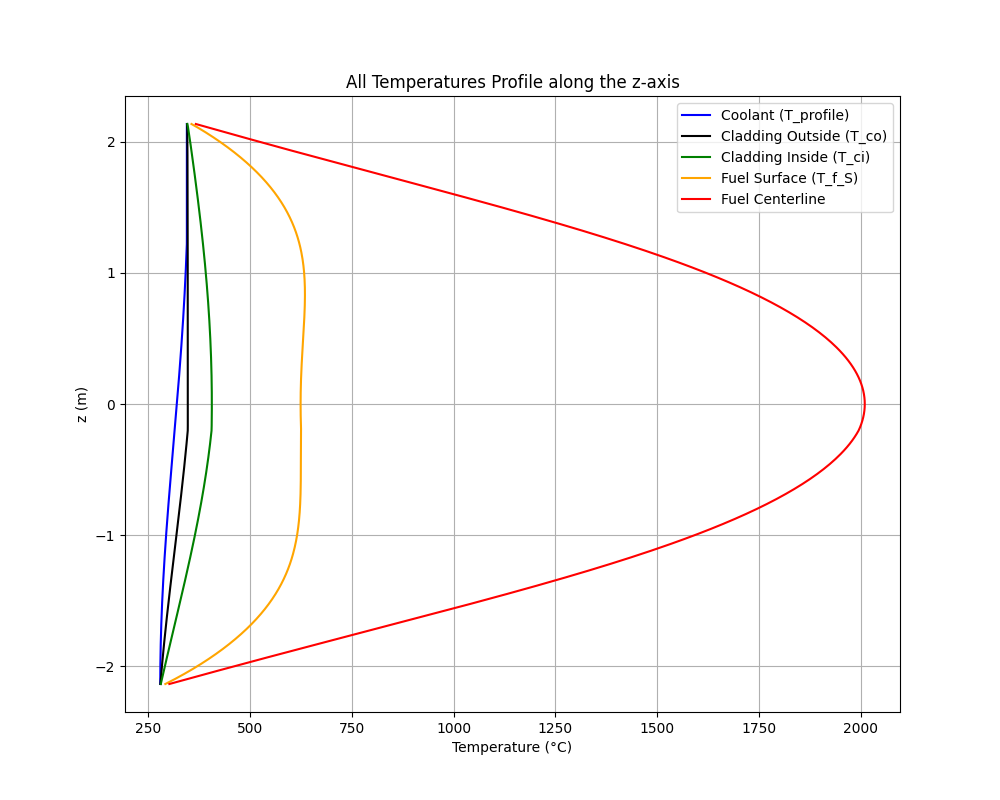
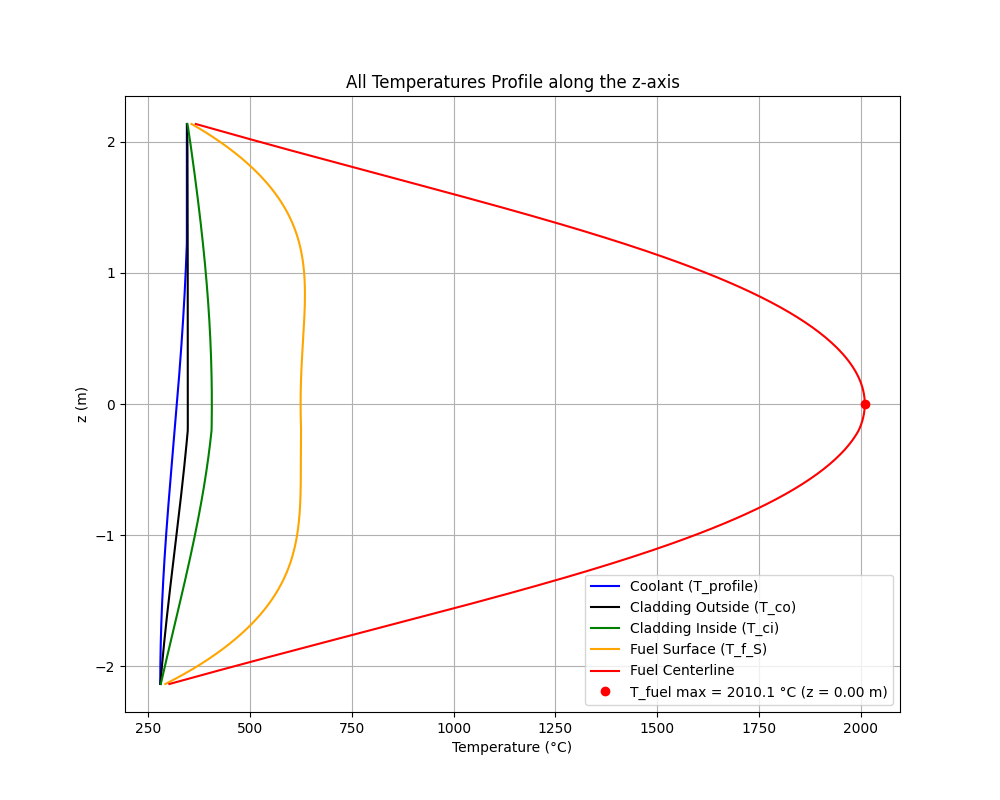
finito

Changed region(s): [[0.589, 0.7188, 0.899, 0.875], [0.682, 0.125, 0.899, 0.2812]]

diff --git a/assignment2/assignment2.py b/assignment2/assignment2.py
@@ -795,6 +795,7 @@ if __name__ == "__main__":
                [{'x': T_center, 'label': 'T_centerline_fuel (°C)', 'color': 'red'}])
 
     # 9 all) All temperatures
+    T_fuel_max_idx = int(np.argmax(T_centerline))
     plot_axial('9_all_temperatures.png', 'Temperature (°C)',
                'All Temperatures Profile along the z-axis',
                [{'x': T_profile, 'label': 'Coolant (T_profile)', 'color': 'blue'},
@@ -802,6 +803,8 @@ if __name__ == "__main__":
                 {'x': T_ci, 'label': 'Cladding Inside (T_ci)', 'color': 'green'},
                 {'x': T_f_S, 'label': 'Fuel Surface (T_f_S)', 'color': 'orange'},
                 {'x': T_centerline, 'label': 'Fuel Centerline', 'color': 'red'}],
+               markers=[{'x': T_centerline[T_fuel_max_idx], 'z': z[T_fuel_max_idx], 'fmt': 'ro',
+                         'label': f'T_fuel max = {T_centerline[T_fuel_max_idx]:.1f} °C (z = {z[T_fuel_max_idx]:.2f} m)'}],
                figsize=(10, 8))
 
     # 11) Critical heat flux + MDNBR
